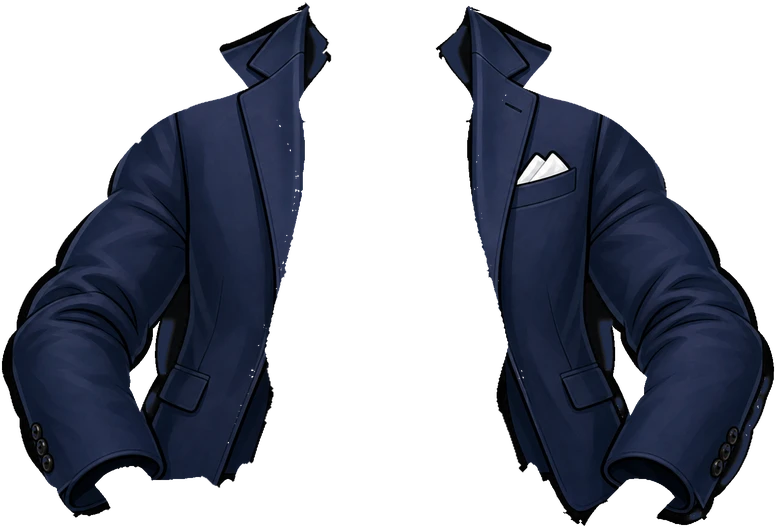
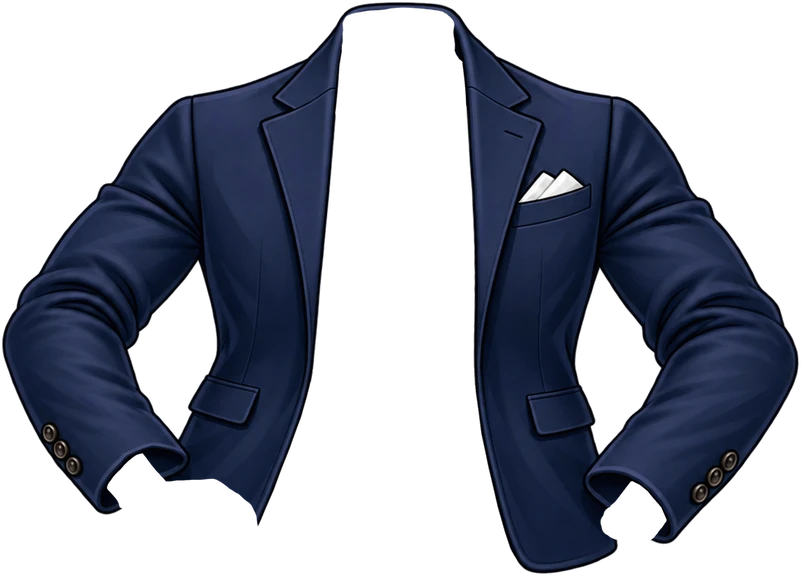
Hero: the body and the legs hold still (no breathing) so the clothes never slip off; Вадим's jacket redrawn by the artist, the tie under it like a chain
Claude-Session: https://claude.ai/code/session_01E3jaUxUo8xTQNwyakAWMq3

Changed region(s): [[0.433, 0.0, 1.0, 1.0], [0.0, 0.0, 0.433, 1.0]]

diff --git a/src/app/screens.css b/src/app/screens.css
@@ -322,7 +322,8 @@
 .look-chip.on { background: #e3862f; }
 
 /* ---------- seated character rig ---------- */
-.rig-breath { transform-box: view-box; transform-origin: 500px 1340px; animation: rig-breath 3.8s ease-in-out infinite; }
+/* the body and the legs hold still (no breathing): the clothes, drawn as separate layers, then never slip off its edges */
+.rig-breath { transform-box: view-box; transform-origin: 500px 1340px; }
 @keyframes rig-breath { 0%, 100% { transform: scale(1, 1); } 50% { transform: scale(1.004, 1.008); } }
 .rig-head { animation: rig-head 9s ease-in-out infinite; }
 @keyframes rig-head { 0%, 100% { transform: rotate(0deg); } 20% { transform: rotate(-3deg); } 45% { transform: rotate(-3deg); } 60% { transform: rotate(2.5deg) translateY(2px); } 85% { transform: rotate(2.5deg); } }

diff --git a/src/client/art/rig.tsx b/src/client/art/rig.tsx
@@ -350,7 +350,7 @@ function Beard() {
 }
 
 /** open jackets: the chain goes under them */
-const OPEN_JACKETS = ["jacket-komandate", "jacket-puffer"];
+const OPEN_JACKETS = ["jacket-komandate", "jacket-puffer", "jacket-vadim"];
 
 /** where the diamond teeth glint (rig coordinates over the mouth) and when (s) */
 const GLINTS: [number, number, number][] = [[485, 253, 0], [503, 256, 1.3], [520, 252, 2.6], [495, 266, 3.7], [515, 267, 5.1]];

diff --git a/src/client/art/rig-look.ts b/src/client/art/rig-look.ts
@@ -302,10 +302,10 @@ export const WEAR_FIT = {
   },
   "jacket-vadim": {
     "slot": "SHIRT",
-    "x": 115.0,
-    "y": 238.5,
-    "w": 776,
-    "h": 528
+    "x": 102.5,
+    "y": 235.5,
+    "w": 801,
+    "h": 576
   },
   "pants-vadim": {
     "slot": "PANTS",
